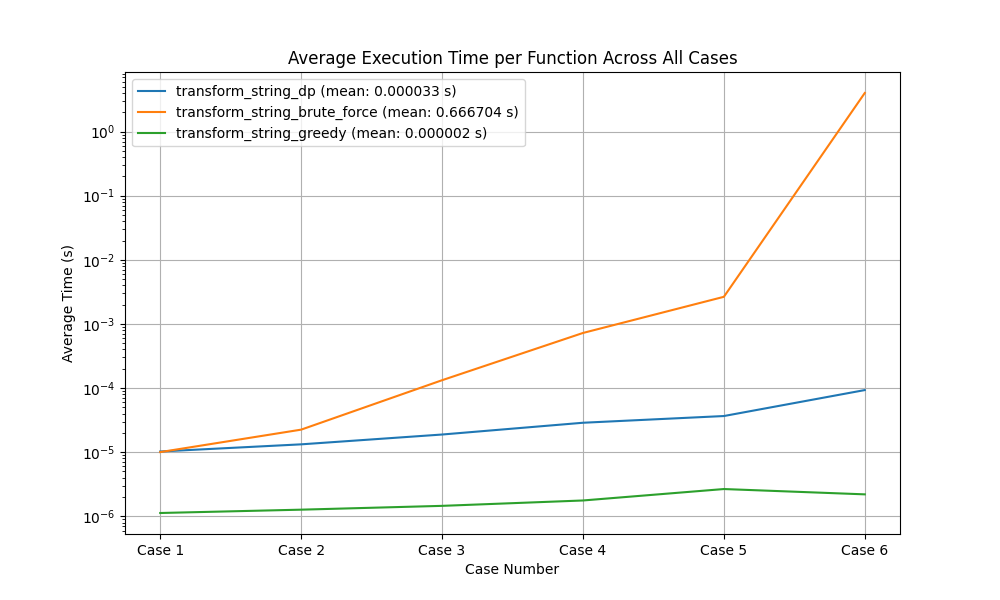
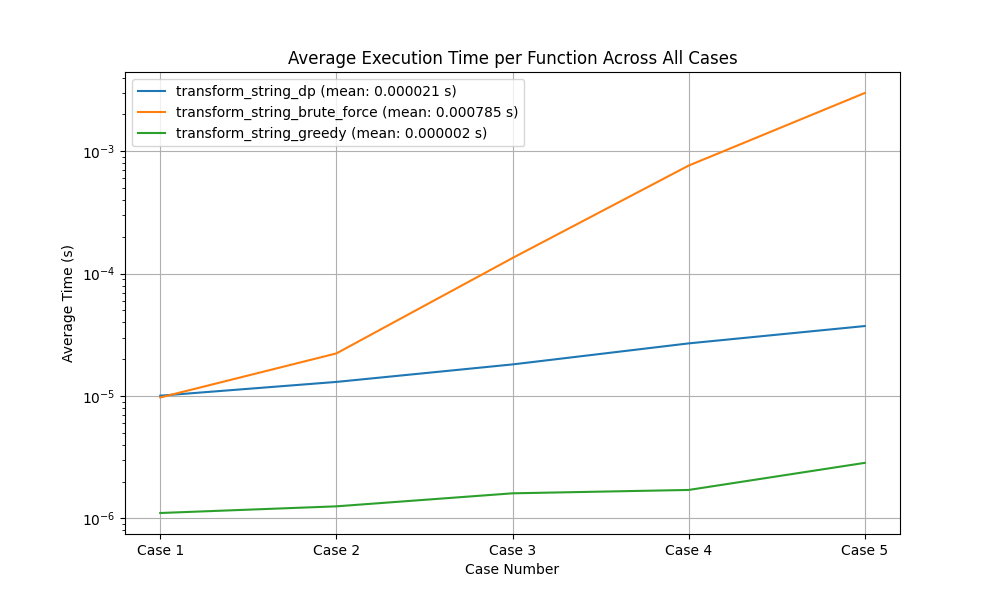
Refactor benchmark tests to use direct theoretical complexity values

diff --git a/test/test_benchmark.py b/test/test_benchmark.py
@@ -38,7 +38,7 @@ class Benchmark:
 
         func_name = func.__name__
         self.results[case_name][func_name] = self._benchmark_function(func, *case['args'])
-        self.theoretical_costs[case_name][func_name] = theoretical_complexity(case)
+        self.theoretical_costs[case_name][func_name] = theoretical_complexity
 
     def _benchmark_function(self, func, *args):
         times = []
@@ -173,10 +173,6 @@ if __name__ == '__main__':
         {
             'name': 'Case perro to gatos',
             'args': ['perro', 'gatos', cost]
-        },
-        {
-            'name': 'Case ingenioso to ingeniero',
-            'args': ['ingenioso', 'ingeniero', cost]
         }
     ]
 
@@ -222,9 +218,11 @@ if __name__ == '__main__':
     '''
 
     for case in string_transform_cases:
-        benchmark.add_function(transform_string_dp, case, lambda case: len(case['args'][0]) * len(case['args'][1]))
-        benchmark.add_function(transform_string_brute_force, case, lambda case: 4 ** (len(case['args'][0]) + len(case['args'][1])))
-        benchmark.add_function(transform_string_greedy, case, lambda case: len(case['args'][0]) + len(case['args'][1]))
+        m = len(case['args'][0])
+        n = len(case['args'][1])
+        benchmark.add_function(transform_string_dp, case,theoretical_complexity=m * n)
+        benchmark.add_function(transform_string_brute_force, case, theoretical_complexity=4 ** (m + n))
+        benchmark.add_function(transform_string_greedy, case, theoretical_complexity=m + n)
 
     benchmark.plot_results_per_case()
     benchmark.plot_average_results()
